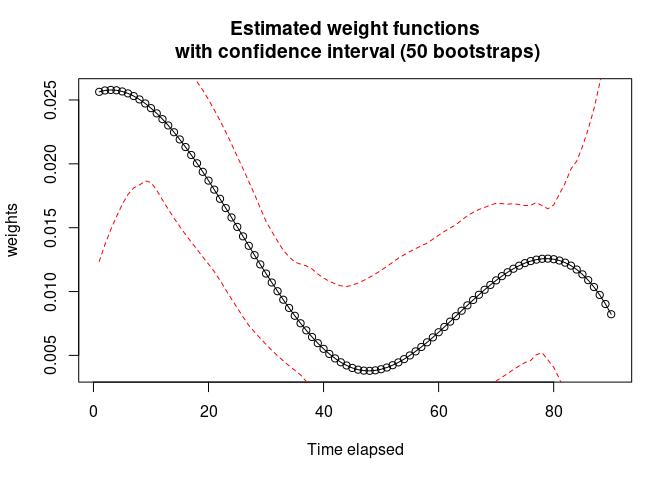
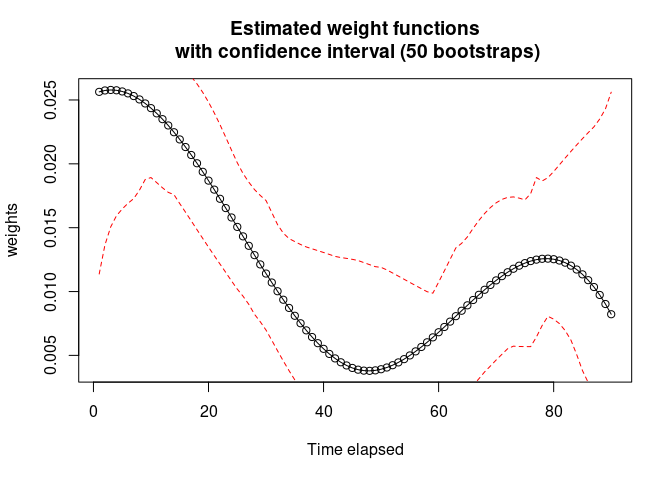
clean doc

diff --git a/R/README.md b/R/README.md
@@ -36,6 +36,8 @@ devtools::install_github("jeanfeydy/survivalGPU",
 You can build the package on tar.gz file with `devtools::build()` after
 git clone this repository.
 
+> **Warning**: if R offers you to install Miniconda, refuse.
+
 ## Examples
 
 Let’s make an example with `drugdata` dataset from WCE package.
@@ -53,10 +55,13 @@ number of bootstrap, and consequently the batchsize argument, according
 to CUDA drivers detection.
 
 ``` r
-if(use_cuda()){
-  n_bootstrap <- 1000; batchsize <- 200
-}else{
-  n_bootstrap <- 50  ; batchsize <- 10}
+if (use_cuda()) {
+  n_bootstrap <- 1000
+  batchsize <- 200
+} else {
+  n_bootstrap <- 50
+  batchsize <- 10
+}
 ```
 
 ### Cox
@@ -67,10 +72,11 @@ package, with a Surv object in the formula, containing Start, Stop and
 Event variables.
 
 ``` r
-coxphGPU_bootstrap<-coxphGPU(Surv(Start, Stop, Event) ~ sex + age,
-                             data = drugdata,
-                             bootstrap = n_bootstrap,
-                             batchsize = batchsize)
+coxphGPU_bootstrap <- coxphGPU(Surv(Start, Stop, Event) ~ sex + age,
+  data = drugdata,
+  bootstrap = n_bootstrap,
+  batchsize = batchsize
+)
 ```
 
 You obtain with `summary` all results for initial model, and a
@@ -105,8 +111,8 @@ summary(coxphGPU_bootstrap)
 #>  ---------------- 
 #> Confidence interval with 50 bootstraps for exp(coef), conf.level = 0.95 :
 #>      2.5% 97.5%
-#> sex 1.487 2.447
-#> age 1.002 1.018
+#> sex 1.484 2.351
+#> age 1.002 1.016
 ```
 
 ### WCE
@@ -119,11 +125,13 @@ can use the `wceGPU` function in the same way as the `WCE::WCE` function
 from WCE package.
 
 ``` r
-wce_gpu_bootstrap <- wceGPU(data = drugdata, nknots =  1, cutoff =  90, id="Id",
-                            event = "Event", start = "Start", stop = "Stop",
-                            expos = "dose", covariates = c("age","sex"),
-                            constrained = FALSE, aic = FALSE, confint = 0.95,
-                            nbootstraps = n_bootstrap, batchsize = batchsize)
+wce_gpu_bootstrap <- wceGPU(
+  data = drugdata, nknots = 1, cutoff = 90, id = "Id",
+  event = "Event", start = "Start", stop = "Stop",
+  expos = "dose", covariates = c("age", "sex"),
+  constrained = FALSE, aic = FALSE, confint = 0.95,
+  nbootstraps = n_bootstrap, batchsize = batchsize
+)
 ```
 
 In the summary, there are estimated coefficients for the covariates with
@@ -149,8 +157,8 @@ summary(wce_gpu_bootstrap)
 #> 
 #> CI of estimates :
 #>          2.5%     97.5%
-#> age 0.0012846 0.0176067
-#> sex 0.4742390 0.8820490
+#> age 0.0031964 0.0199091
+#> sex 0.4063560 0.8810200
 ```
 
 The risk function can be plot, and if you added bootstrap, confidence
